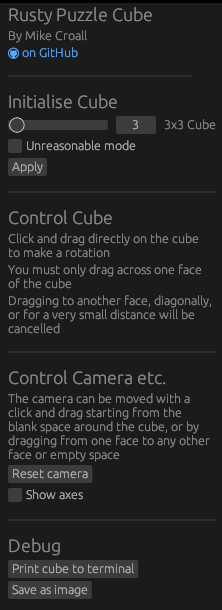
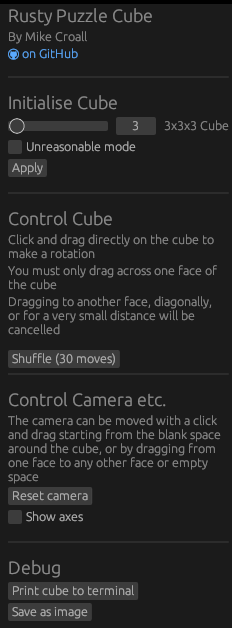
readme: update images and add shuffle

diff --git a/README.md b/README.md
@@ -10,11 +10,12 @@
 
 Experimental, still a work in progress, etc.
 
-#### Cube in Cube in Cube (3x3 algo only on multiple cube sizes)
+#### Cube in Cube in Cube (3x3x3 algo only on multiple cube sizes)
 
-![Cube in Cube in Cube 3d 3x3 screenshot](img/3x3-3d-cicic.png)
-![Cube in Cube in Cube 3d 4x4 screenshot](img/4x4-3d-cicic.png)
-![Cube in Cube in Cube 3d 10x10 screenshot](img/10x10-3d-cicic.png)
+![Cube in Cube in Cube 3D 3x3x3 screenshot](img/3x3x3-3D-cicic.png)
+![Cube in Cube in Cube 3D 4x4x4 screenshot](img/4x4x4-3D-cicic.png)
+![Cube in Cube in Cube 3D 10x10x10 screenshot](img/10x10x10-3D-cicic.png)
+![Shuffled 3D 10x10x10 screenshot](img/10x10x10-3D-shuffle.png)
 
 #### Controls
 
@@ -22,9 +23,11 @@ Click and drag along the edge of a face to perform a rotation
 
 Unreasonable mode simply changes the maximum cube size from 100 to 2000
 
+Shuffle will make `10n` moves on an `n` x `n` x `n` cube
+
 Some controls are removed on the WASM target
 
-![Controls for the 3d renderer](img/controls-3d.png)
+![Controls for the 3D renderer](img/controls-3D.png)
 
 ### Building Puzzle Cube GUI Crate for web
 
@@ -44,7 +47,7 @@ Then visit `http://localhost:8080`
 
 ### Puzzle Cube Lib Crate Demo
 
-Demos of basic 3x3 notation being parsed and applied to a newly created cube
+Demos of basic 3x3x3 notation being parsed and applied to a newly created cube
 
 #### Cube in Cube in Cube
 
@@ -81,4 +84,4 @@ print!("{cube}");
 
 ![Big Cube and Unique Cubie output screenshot](img/big-cube-unique-cubie.png)
 
-Note that notation currently only supports 3x3-applicable moves. For example, rotating only the center column of a 5x5, or the 2nd column of a 4x4 is currently impossible with notation.
+Note that notation currently only supports 3x3x3-applicable moves. For example, rotating only the center column of a 5x5x5, or the 2nd column of a 4x4x4 is currently impossible with notation.
